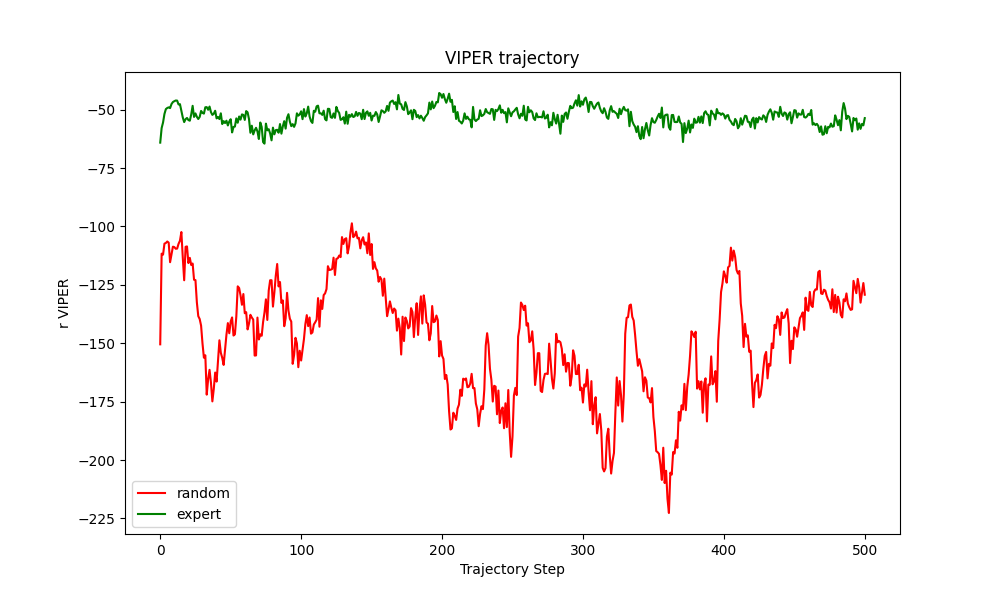
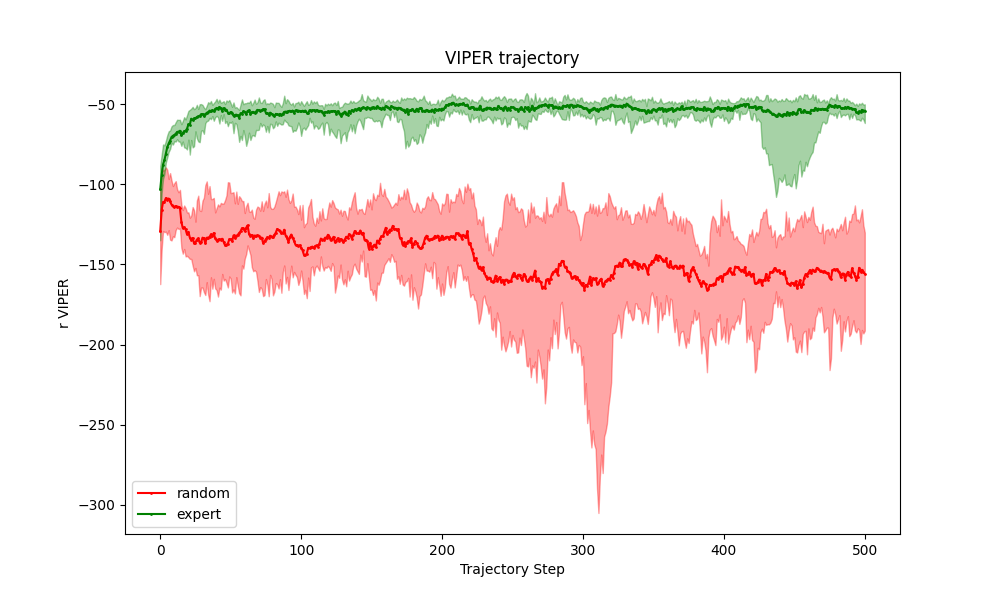
running more experiments

diff --git a/scripts/video_likelihood.py b/scripts/video_likelihood.py
@@ -132,22 +132,26 @@ def main(config):
             action = random_actor.sample()
             logprob = random_actor.log_prob(action)
             return {"action": action, "logprob": logprob}, None
-
+    
+    seeds = 10
     traj_len = 501
+
+    random_density = np.zeros((seeds, traj_len))
     is_first = np.zeros(traj_len)
     is_first[0] = 1
 
     random_agent = RandomAgent(config)
 
-    rand = tools.eval_rollout(random_agent, envs)
-    
-    rand["is_first"] = is_first
-    rand = reward_model(rand)
-    rand["density"] = np.array(rand["density"])
+    for i in range(seeds):
+        rand = tools.eval_rollout(random_agent, envs)
+        
+        rand["is_first"] = is_first
+        rand = reward_model(rand)
+        random_density[i] = np.array(rand["density"])
 
-    print("The random viper return is {}".format(sum(rand["density"])))
-    print("The random viper reward mean is {}".format(rand["density"].mean()))
-    print("The random viper reward std is {}".format(rand["density"].std()))
+    # print("The random viper return is {}".format(sum(rand["density"])))
+    # print("The random viper reward mean is {}".format(rand["density"].mean()))
+    # print("The random viper reward std is {}".format(rand["density"].std()))
 
     # expert traj
     env = "cheetah_run"
@@ -155,30 +159,45 @@ def main(config):
     path = "viper_rl_data/datasets/dmc/{}/test/*.npz".format(env)
     fns = glob.glob(path)
 
+    expert_density = np.zeros((seeds, traj_len))
     # for video_path in fns:
-    video_path = fns[0]
-    video = np.load(video_path)['arr_0']
-    max_idx = video.shape[0] - traj_len + 1
-    max_idx = min(max_idx, traj_len)
-    np.random.seed(config.seed+video.shape[0])
-    idx = np.random.randint(0, max_idx)
-    video = video[idx:idx+traj_len]
-    print(video.shape)
+    for i in range(seeds):
+        video_path = fns[i]
+        video = np.load(video_path)['arr_0']
+        # max_idx = video.shape[0] - traj_len + 1
+        # max_idx = min(max_idx, traj_len)
+        # np.random.seed(config.seed+video.shape[0])
+        # idx = np.random.randint(0, max_idx)
+        video = video[:traj_len]
+        # print(video.shape)
 
-    expert = dict(image=video, is_first=is_first)
-    expert = reward_model(expert)
-    expert["density"] = np.array(expert["density"])
+        expert = dict(image=video, is_first=is_first)
+        expert = reward_model(expert)
+        expert_density[i] = np.array(expert["density"])
 
     
-    print("The expert viper return is {}".format(sum(expert["density"])))
-    print("The expert viper reward mean is {}".format(expert["density"].mean()))
-    print("The expert viper reward std is {}".format(expert["density"].std()))
+    # print("The expert viper return is {}".format(sum(expert["density"])))
+    # print("The expert viper reward mean is {}".format(expert["density"].mean()))
+    # print("The expert viper reward std is {}".format(expert["density"].std()))
 
     x = np.arange(traj_len)
 
+    rand_avs = np.mean(random_density, axis=0)
+    rand_maxs = np.max(random_density, axis=0)
+    rand_mins = np.min(random_density, axis=0)
+
+    expert_avs = np.mean(expert_density, axis=0)
+    expert_maxs = np.max(expert_density, axis=0)
+    expert_mins = np.min(expert_density, axis=0)
+
     plt.figure(figsize=(10, 6))  # Set the figure size for better visibility
-    plt.plot(x, rand["density"], color='red', label='random')  # Plot y1 vs. x with blue color
-    plt.plot(x, expert["density"], color='green', label='expert')  # Plot y2 vs. x with red color
+    
+    plt.fill_between(x, rand_mins, rand_maxs, color='red', alpha=0.35)
+    plt.plot(x, rand_avs, '-o', color='red', markersize=1, label="random")
+    
+    plt.fill_between(x, expert_mins, expert_maxs, color='green', alpha=0.35)
+    plt.plot(x, expert_avs, '-o', color='green', markersize=1, label='expert')  # Plot y2 vs. x with red color
+    
     plt.title('VIPER trajectory')  # Title of the plot
     plt.xlabel('Trajectory Step')  # X-axis label
     plt.ylabel('r VIPER')  # Y-axis label

diff --git a/plot.py b/plot.py
@@ -26,10 +26,10 @@ if __name__ == "__main__":
 
     # methods = ["viper"]
     # seeds = ["0"]
-    methods = ["explore", "egreedy", "clip-explore", "clip-egreedy", "clip-egreedy+explore"]
+    methods = ["explore", "egreedy", "clip-explore", "viper", "clip-egreedy", "clip-egreedy+explore"]
     # methods = ["vanilla", "0.05-greedy", "0.5-0.05 decay"]
     # methods = ["inf_life", "inf_life_curiosity"]
-    seeds = ["0", "1", "2", "4", "5"]
+    seeds = ["0", "1", "2", "3", "4", "5"]
 
     rmin = 0
     rmax = 0
